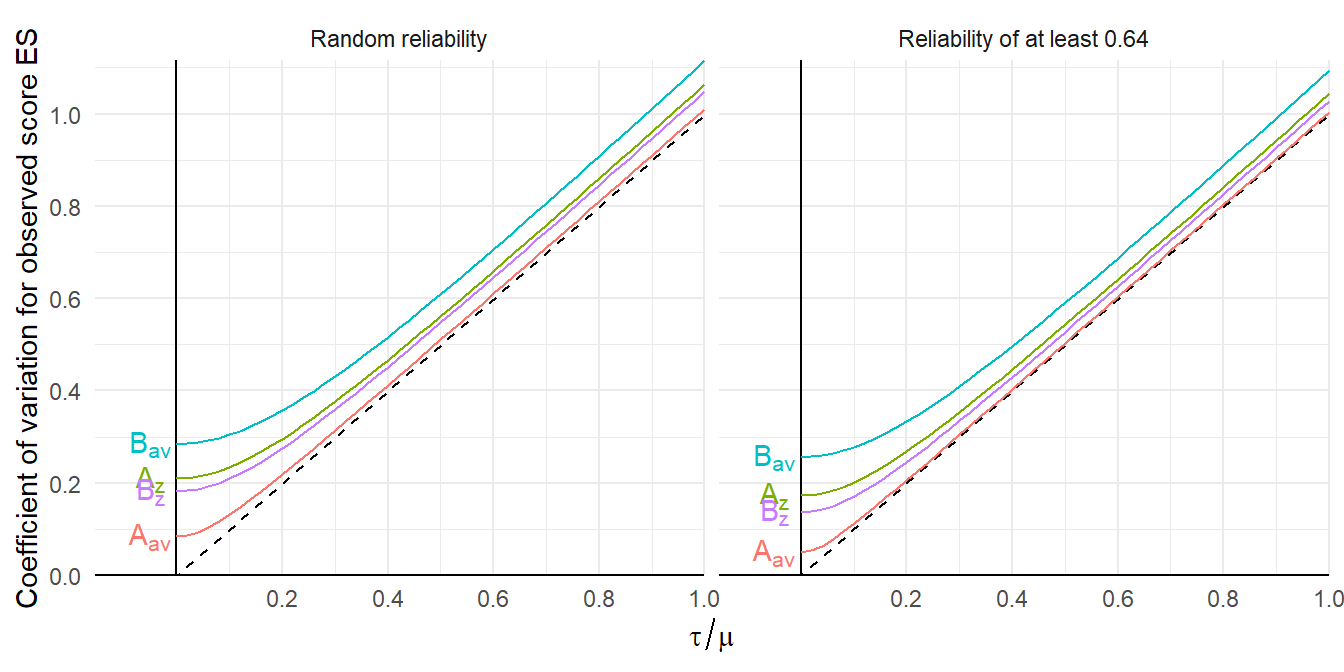
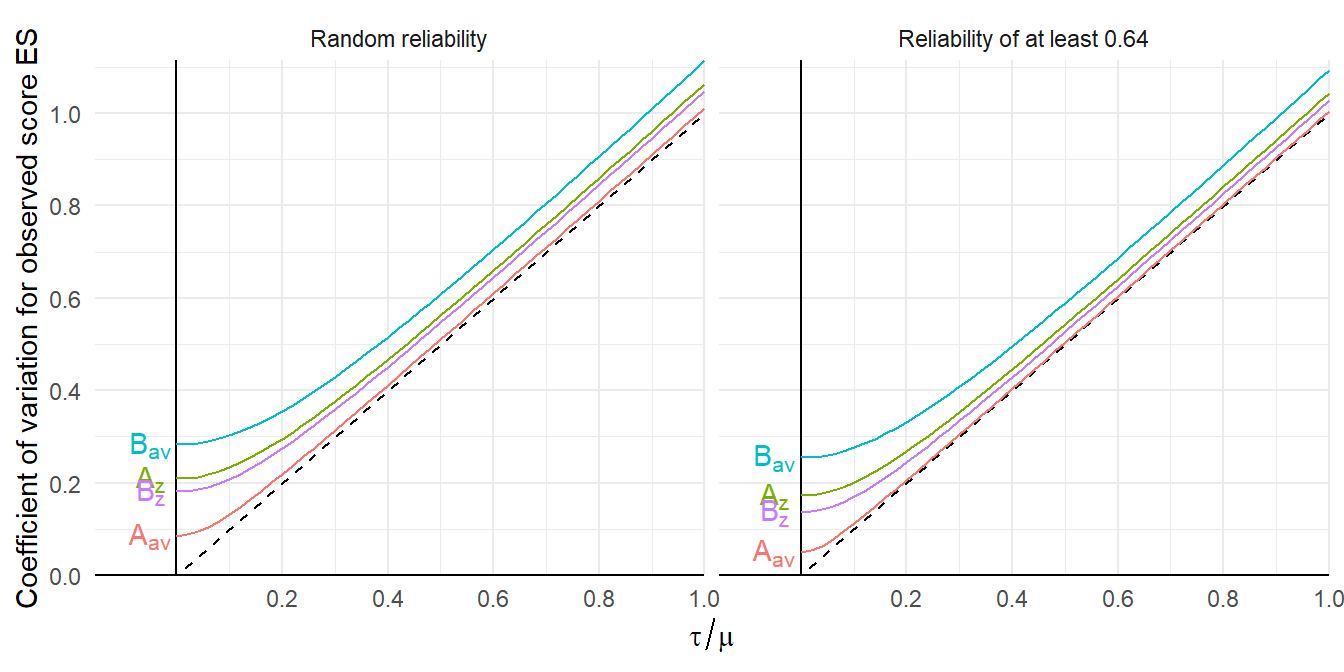
Title change.

diff --git a/content/post/dizzy-for-d-z.html b/content/post/dizzy-for-d-z.html
@@ -1,5 +1,5 @@
 ---
-title: Cohen's $d_z$ makes me dizzy because of measurement error
+title: Cohen's $d_z$ makes me dizzy when considering measurement error
 authors:
   - admin
 date: '2023-02-17'
@@ -136,7 +136,7 @@ p_A_av &lt;- density_plot(A_av, expression(A[av]),&quot;blue&quot;, c(0.2,1))
 p_A_z &lt;- density_plot(A_z, expression(A[z]), &quot;purple&quot;, c(0, 3))
 p_A_av + p_A_z</code></pre>
 <p><img src="/post/dizzy-for-d-z_files/figure-html/unnamed-chunk-2-1.png" width="960" /></p>
-<p>The distribution of <span class="math inline">\(A_{av}\)</span> is mostly concentrated around the mean of <span class="math inline">\(E(A_{av}) = 0.898\)</span>, with a coefficient of variation of <span class="math inline">\(CV(A_{av}) = 0.085\)</span>. In contrast, the distribution of <span class="math inline">\(A_{av}\)</span> has a mean very close to one, <span class="math inline">\(E(A_z) = 1.006\)</span> but a coefficient of variation of <span class="math inline">\(CV(A_z) = 0.209\)</span>, about 2.5 times larger. Thus, variation in measurement procedure induces more extra heterogeneity into the distribution of <span class="math inline">\(\tilde\delta_z\)</span> than into <span class="math inline">\(\tilde\delta_{av}\)</span>.</p>
+<p>The distribution of <span class="math inline">\(A_{av}\)</span> is mostly concentrated around the mean of <span class="math inline">\(E(A_{av}) = 0.898\)</span>, with a coefficient of variation of <span class="math inline">\(CV(A_{av}) = 0.085\)</span>. In contrast, the distribution of <span class="math inline">\(A_{av}\)</span> has a mean very close to one, <span class="math inline">\(E(A_z) = 1.007\)</span> but a coefficient of variation of <span class="math inline">\(CV(A_z) = 0.209\)</span>, about 2.4 times larger. Thus, variation in measurement procedure induces more extra heterogeneity into the distribution of <span class="math inline">\(\tilde\delta_z\)</span> than into <span class="math inline">\(\tilde\delta_{av}\)</span>.</p>
 <p>Now, one potential objection to this hypothetical scenario is that researchers do not choose the number of trials at random, without consideration for the other parameters of the study design. A more realistic assumption might be that researchers choose <span class="math inline">\(K\)</span> to ensure they achieve at least some threshold level of reliability for the observed scores. The reliability of the observed scores is <span class="math inline">\(A_{av}^2\)</span>, so ensuring some threshold of reliability is equivalent to ensuring the square root of the threshold for <span class="math inline">\(A_{av}\)</span>. Let’s suppose that researchers always ensure <span class="math inline">\(A_{av} \geq 0.8\)</span> so that reliability is always at least <span class="math inline">\(0.64\)</span>. This leads to the following distributions for <span class="math inline">\(A_{av}\)</span> and <span class="math inline">\(A_z\)</span>:</p>
 <pre class="r"><code>A_av_trunc &lt;- A_av[A_av &gt;= 0.8]
 A_z_trunc &lt;- A_z[A_av &gt;= 0.8]
@@ -144,7 +144,7 @@ p_A_av_trunc &lt;- density_plot(A_av_trunc, expression(A[av]),&quot;blue&quot;, 
 p_A_z_trunc &lt;- density_plot(A_z_trunc, expression(A[z]), &quot;purple&quot;, c(0, 3))
 p_A_av_trunc + p_A_z_trunc</code></pre>
 <p><img src="/post/dizzy-for-d-z_files/figure-html/unnamed-chunk-3-1.png" width="960" />
-The distribution of <span class="math inline">\(A_{av}\)</span> loses its left tail, so that its mean is <span class="math inline">\(E(A_{av}|A_{av} \geq 0.8) = 0.918\)</span> and its coefficient of variation is reduced to <span class="math inline">\(CV(A_{av} | A_{av} \geq 0.8) = 0.049\)</span>. The distribution of <span class="math inline">\(A_{av}\)</span> now has a mean of <span class="math inline">\(E(A_z | A_{av} \geq 0.8) = 1.045\)</span> and a coefficient of variation of <span class="math inline">\(CV(A_z | A_{av} \geq 0.8) = 0.173\)</span>, about 3.5 times larger than the squared coefficient of variation of <span class="math inline">\(A_{av}\)</span>.</p>
+The distribution of <span class="math inline">\(A_{av}\)</span> loses its left tail, so that its mean is <span class="math inline">\(E(A_{av}|A_{av} \geq 0.8) = 0.918\)</span> and its coefficient of variation is reduced to <span class="math inline">\(CV(A_{av} | A_{av} \geq 0.8) = 0.049\)</span>. The distribution of <span class="math inline">\(A_{av}\)</span> now has a mean of <span class="math inline">\(E(A_z | A_{av} \geq 0.8) = 1.046\)</span> and a coefficient of variation of <span class="math inline">\(CV(A_z | A_{av} \geq 0.8) = 0.172\)</span>, about 3.5 times larger than the squared coefficient of variation of <span class="math inline">\(A_{av}\)</span>.</p>
 <p>Under both of these scenarios, the observed-score <span class="math inline">\(\tilde\delta_z\)</span> is substantially more sensitive to heterogeneity of measurement procedures than is <span class="math inline">\(\tilde\delta_{av}\)</span>. Based on this model and hypothetical example, it seems clear <span class="math inline">\(\tilde\delta_{av}\)</span> should be preferred over <span class="math inline">\(\tilde\delta_z\)</span> as a metric for meta-analysis. However, these relationships are predicated on a certain model for the study-specific parameters. One might object to this model because there’s a sense that we have assumed that <span class="math inline">\(\delta_{av}\)</span> is the right answer. After all, the underlying effect size model is specified in terms of <span class="math inline">\(\delta_{av}\)</span>, and the design parameters—including <span class="math inline">\(\rho\)</span> in particular—are treated as noise, uncorrelated with <span class="math inline">\(\delta_{av}\)</span>.
 What happens to the observed-score metrics <span class="math inline">\(\tilde\delta_z\)</span> and <span class="math inline">\(\tilde\delta_{av}\)</span> if we instead start with a model specified in terms of <span class="math inline">\(\delta_z\)</span>?</p>
 </div>
@@ -239,23 +239,23 @@ knitr::kable(
 <td align="left">random</td>
 <td align="right">0.085</td>
 <td align="right">0.209</td>
-<td align="right">2.5</td>
-<td align="right">0.285</td>
-<td align="right">0.182</td>
+<td align="right">2.4</td>
+<td align="right">0.283</td>
+<td align="right">0.181</td>
 <td align="right">0.64</td>
 </tr>
 <tr class="even">
 <td align="left">at least 0.64</td>
 <td align="right">0.049</td>
-<td align="right">0.173</td>
+<td align="right">0.172</td>
 <td align="right">3.5</td>
-<td align="right">0.257</td>
-<td align="right">0.137</td>
+<td align="right">0.255</td>
+<td align="right">0.136</td>
 <td align="right">0.53</td>
 </tr>
 </tbody>
 </table>
-<p>The tables are now more or less turned. Under both reliability scenarios, <span class="math inline">\(B_z\)</span> has a lower coefficient of variation than <span class="math inline">\(B_{av}\)</span>, indicating that <span class="math inline">\(\tilde\delta_z\)</span> is less affected by measurement procedure variation than is <span class="math inline">\(\tilde\delta_{av}\)</span>. However, <span class="math inline">\(\tilde\delta_z\)</span> is still affected in absolute terms, with a coefficient of variation that is about 79% of the coefficient of variation for <span class="math inline">\(A_z\)</span>. Of course, <span class="math inline">\(\tilde\delta_{av}\)</span> is quite strongly affected under this model, with a coefficient of variation of 0.257.</p>
+<p>The tables are now more or less turned. Under both reliability scenarios, <span class="math inline">\(B_z\)</span> has a lower coefficient of variation than <span class="math inline">\(B_{av}\)</span>, indicating that <span class="math inline">\(\tilde\delta_z\)</span> is less affected by measurement procedure variation than is <span class="math inline">\(\tilde\delta_{av}\)</span>. However, <span class="math inline">\(\tilde\delta_z\)</span> is still affected in absolute terms, with a coefficient of variation that is about 79% of the coefficient of variation for <span class="math inline">\(A_z\)</span>. Of course, <span class="math inline">\(\tilde\delta_{av}\)</span> is quite strongly affected under this model, with a coefficient of variation of 0.255.</p>
 </div>
 <div id="consequences-for-heterogeneity" class="section level2">
 <h2>Consequences for heterogeneity</h2>
@@ -305,7 +305,7 @@ ggplot(CV_obs, aes(tau_mu, CV, color = metric)) +
   labs(x = expression(tau / mu), y = &quot;Coefficient of variation for observed score ES&quot;) + 
   theme(legend.position = &quot;none&quot;)</code></pre>
 <p><img src="/post/dizzy-for-d-z_files/figure-html/unnamed-chunk-7-1.png" width="672" />
-Consider, for instance, a scenario where observed-score reliability is always at least 0.64 and <span class="math inline">\(\tau / \mu = 0.5\)</span>, which would be the case if effect sizes are normally distributed and about 97% of effect sizes are positive. Under the effect size model based on <span class="math inline">\(\delta_{av}\)</span>, the observed-score <span class="math inline">\(\tilde\delta_{av}\)</span> is hardly affected by measurement heterogeneity at all, with a CV of 0.504 but the CV of the observed-score <span class="math inline">\(\tilde\delta_z\)</span> is 0.543. Under the effect size model based on <span class="math inline">\(\delta_{av}\)</span>, the observed-score <span class="math inline">\(\tilde\delta_{av}\)</span> is strongly affected by measurement heterogeneity, with a CV of 0.591; in comparison, the CV of the observed-score <span class="math inline">\(\tilde\delta_z\)</span> of 0.527. Under both models, these increase in CV are effectively constant for larger values of <span class="math inline">\(\tau / \mu\)</span>.</p>
+Consider, for instance, a scenario where observed-score reliability is always at least 0.64 and <span class="math inline">\(\tau / \mu = 0.5\)</span>, which would be the case if effect sizes are normally distributed and about 97% of effect sizes are positive. Under the effect size model based on <span class="math inline">\(\delta_{av}\)</span>, the observed-score <span class="math inline">\(\tilde\delta_{av}\)</span> is hardly affected by measurement heterogeneity at all, with a CV of 0.504 but the CV of the observed-score <span class="math inline">\(\tilde\delta_z\)</span> is 0.543. Under the effect size model based on <span class="math inline">\(\delta_{av}\)</span>, the observed-score <span class="math inline">\(\tilde\delta_{av}\)</span> is strongly affected by measurement heterogeneity, with a CV of 0.589; in comparison, the CV of the observed-score <span class="math inline">\(\tilde\delta_z\)</span> of 0.527. Under both models, these increase in CV are effectively constant for larger values of <span class="math inline">\(\tau / \mu\)</span>.</p>
 </div>
 </div>
 <div id="so-whats-your-point" class="section level1">
